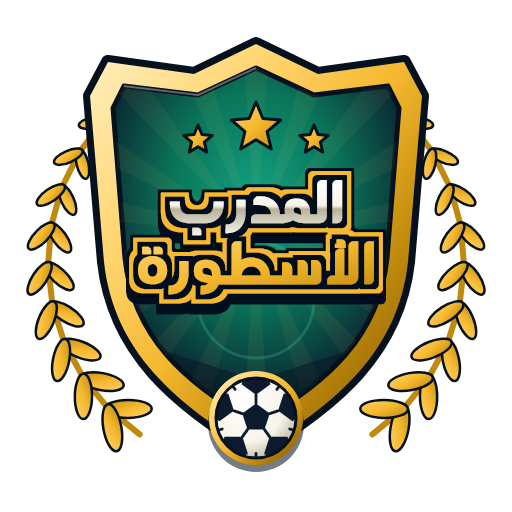
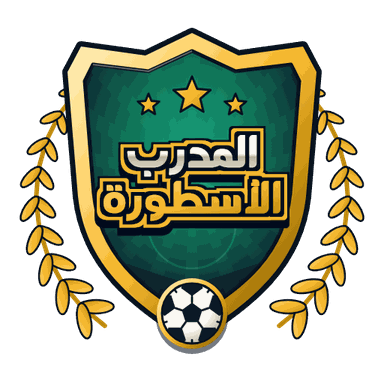
The app at 22 MB instead of 46: one APK per phone type, obfuscated, and lighter images
The launcher and splash sources move to tool/brand (build time only); the emblems and Android's
generated images are resized and palette-compressed.

Claude-Session: https://claude.ai/code/session_01R4UgCXxRrubU6ZhUYWRre2

diff --git a/sprints/15-app-base.md b/sprints/15-app-base.md
@@ -95,3 +95,6 @@
 ## ملاحظات وتعديلات بالتوازي
 
 - لا شيء بعد.
+
+- **حجم التطبيق (2026-11-06، بطلب صاحب المشروع):** من 46 ميجا إلى 22 ميجا. صار البناء ملفاً لكل نوع جوال (`--split-per-abi`): `app-arm64-v8a-release.apk` لكل الجوالات الحديثة، وهو الذي يُرفع للموقع، و`app-armeabi-v7a-release.apk` (19.6 ميجا) للقديمة 32 بت. والكود مموَّه (`--obfuscate --split-debug-info`). وصور الأيقونة والشاشة الأولى انتقلت من التطبيق إلى `tool/brand/`، فهي تُستعمل وقت البناء وحده، وضُغطت صور أندرويد (من 2.5 إلى 0.65 ميجا) والشعار.
+
